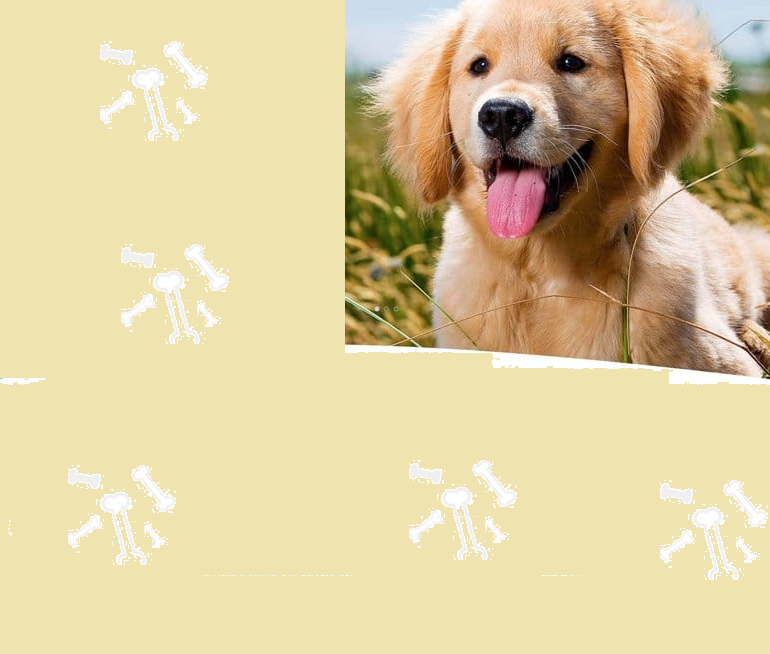
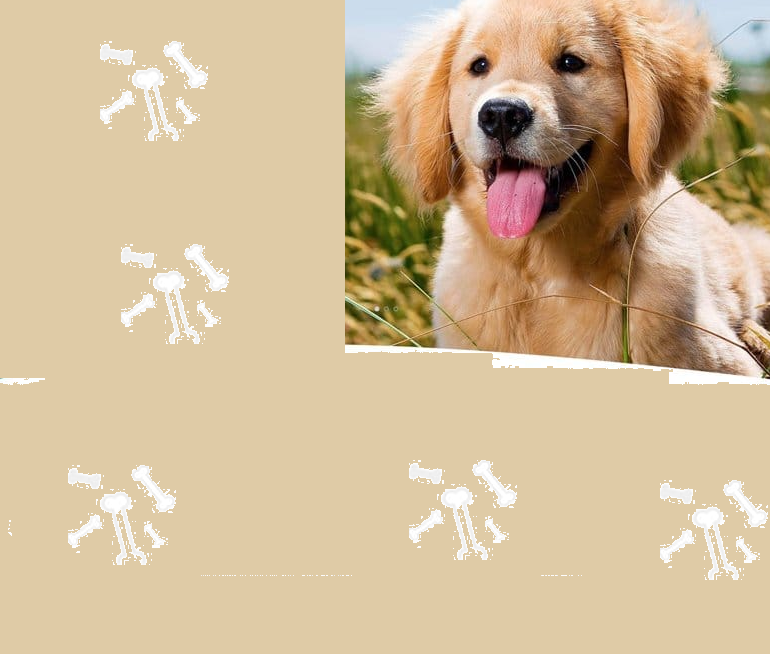
emboss is added to styles

diff --git a/src/views/HomeView.vue b/src/views/HomeView.vue
@@ -2,8 +2,9 @@
   <div class="home">
     <div class="contenedor">
   <img src="../assets/dog.png" />
-  <div class="centrado">Alimento para tus mascotas y algo más.
-    porque ellos merecen lo mejor
+  <div class="centrado"><p> Alimento para tus mascotas y algo más.</p>
+   <p>porque ellos merecen lo mejor</p>
+   <button>contactar</button>
   </div>
 </div>
     <HelloWorld msg="Welcome to Your Vue.js + TypeScript App"/>
@@ -27,6 +28,9 @@ export default class HomeView extends Vue {}
     position: relative;
     display: inline-block;
     text-align: center;
+    color: white;
+    font-size: 300%;
+    font-family: roboto;
 }
  
 
@@ -36,4 +40,9 @@ export default class HomeView extends Vue {}
     left: 50%;
     transform: translate(-50%, -50%);
 }
+        p {
+            color: #65E73C;
+            text-shadow: -2px 2px 4px rgba(0, 0, 0, 0.5),
+                2px -2px 0 rgba(255, 255, 255, 0.9);
+        }
 </style>

diff --git a/src/App.vue b/src/App.vue
@@ -16,7 +16,10 @@
   -webkit-font-smoothing: antialiased;
   -moz-osx-font-smoothing: grayscale;
   text-align: center;
-  color: #2c3e50;
+
+            color: #2ea109;
+            text-shadow: -2px 2px 4px rgba(0, 0, 0, 0.5),
+                2px -2px 0 rgba(255, 255, 255, 0.9);
 }
 
 nav {
@@ -25,10 +28,17 @@ nav {
 
 nav a {
   font-weight: bold;
-  color: #2c3e50;
+  color: #2ea109;;
 }
 
 nav a.router-link-exact-active {
-  color: black;
+  color: #2ea109;;
+}
+
+button{
+       color: #2ea109;
+            text-shadow: -2px 2px 4px rgba(0, 0, 0, 0.5),
+                2px -2px 0 rgba(255, 255, 255, 0.9);
+                height: 50px;
 }
 </style>
